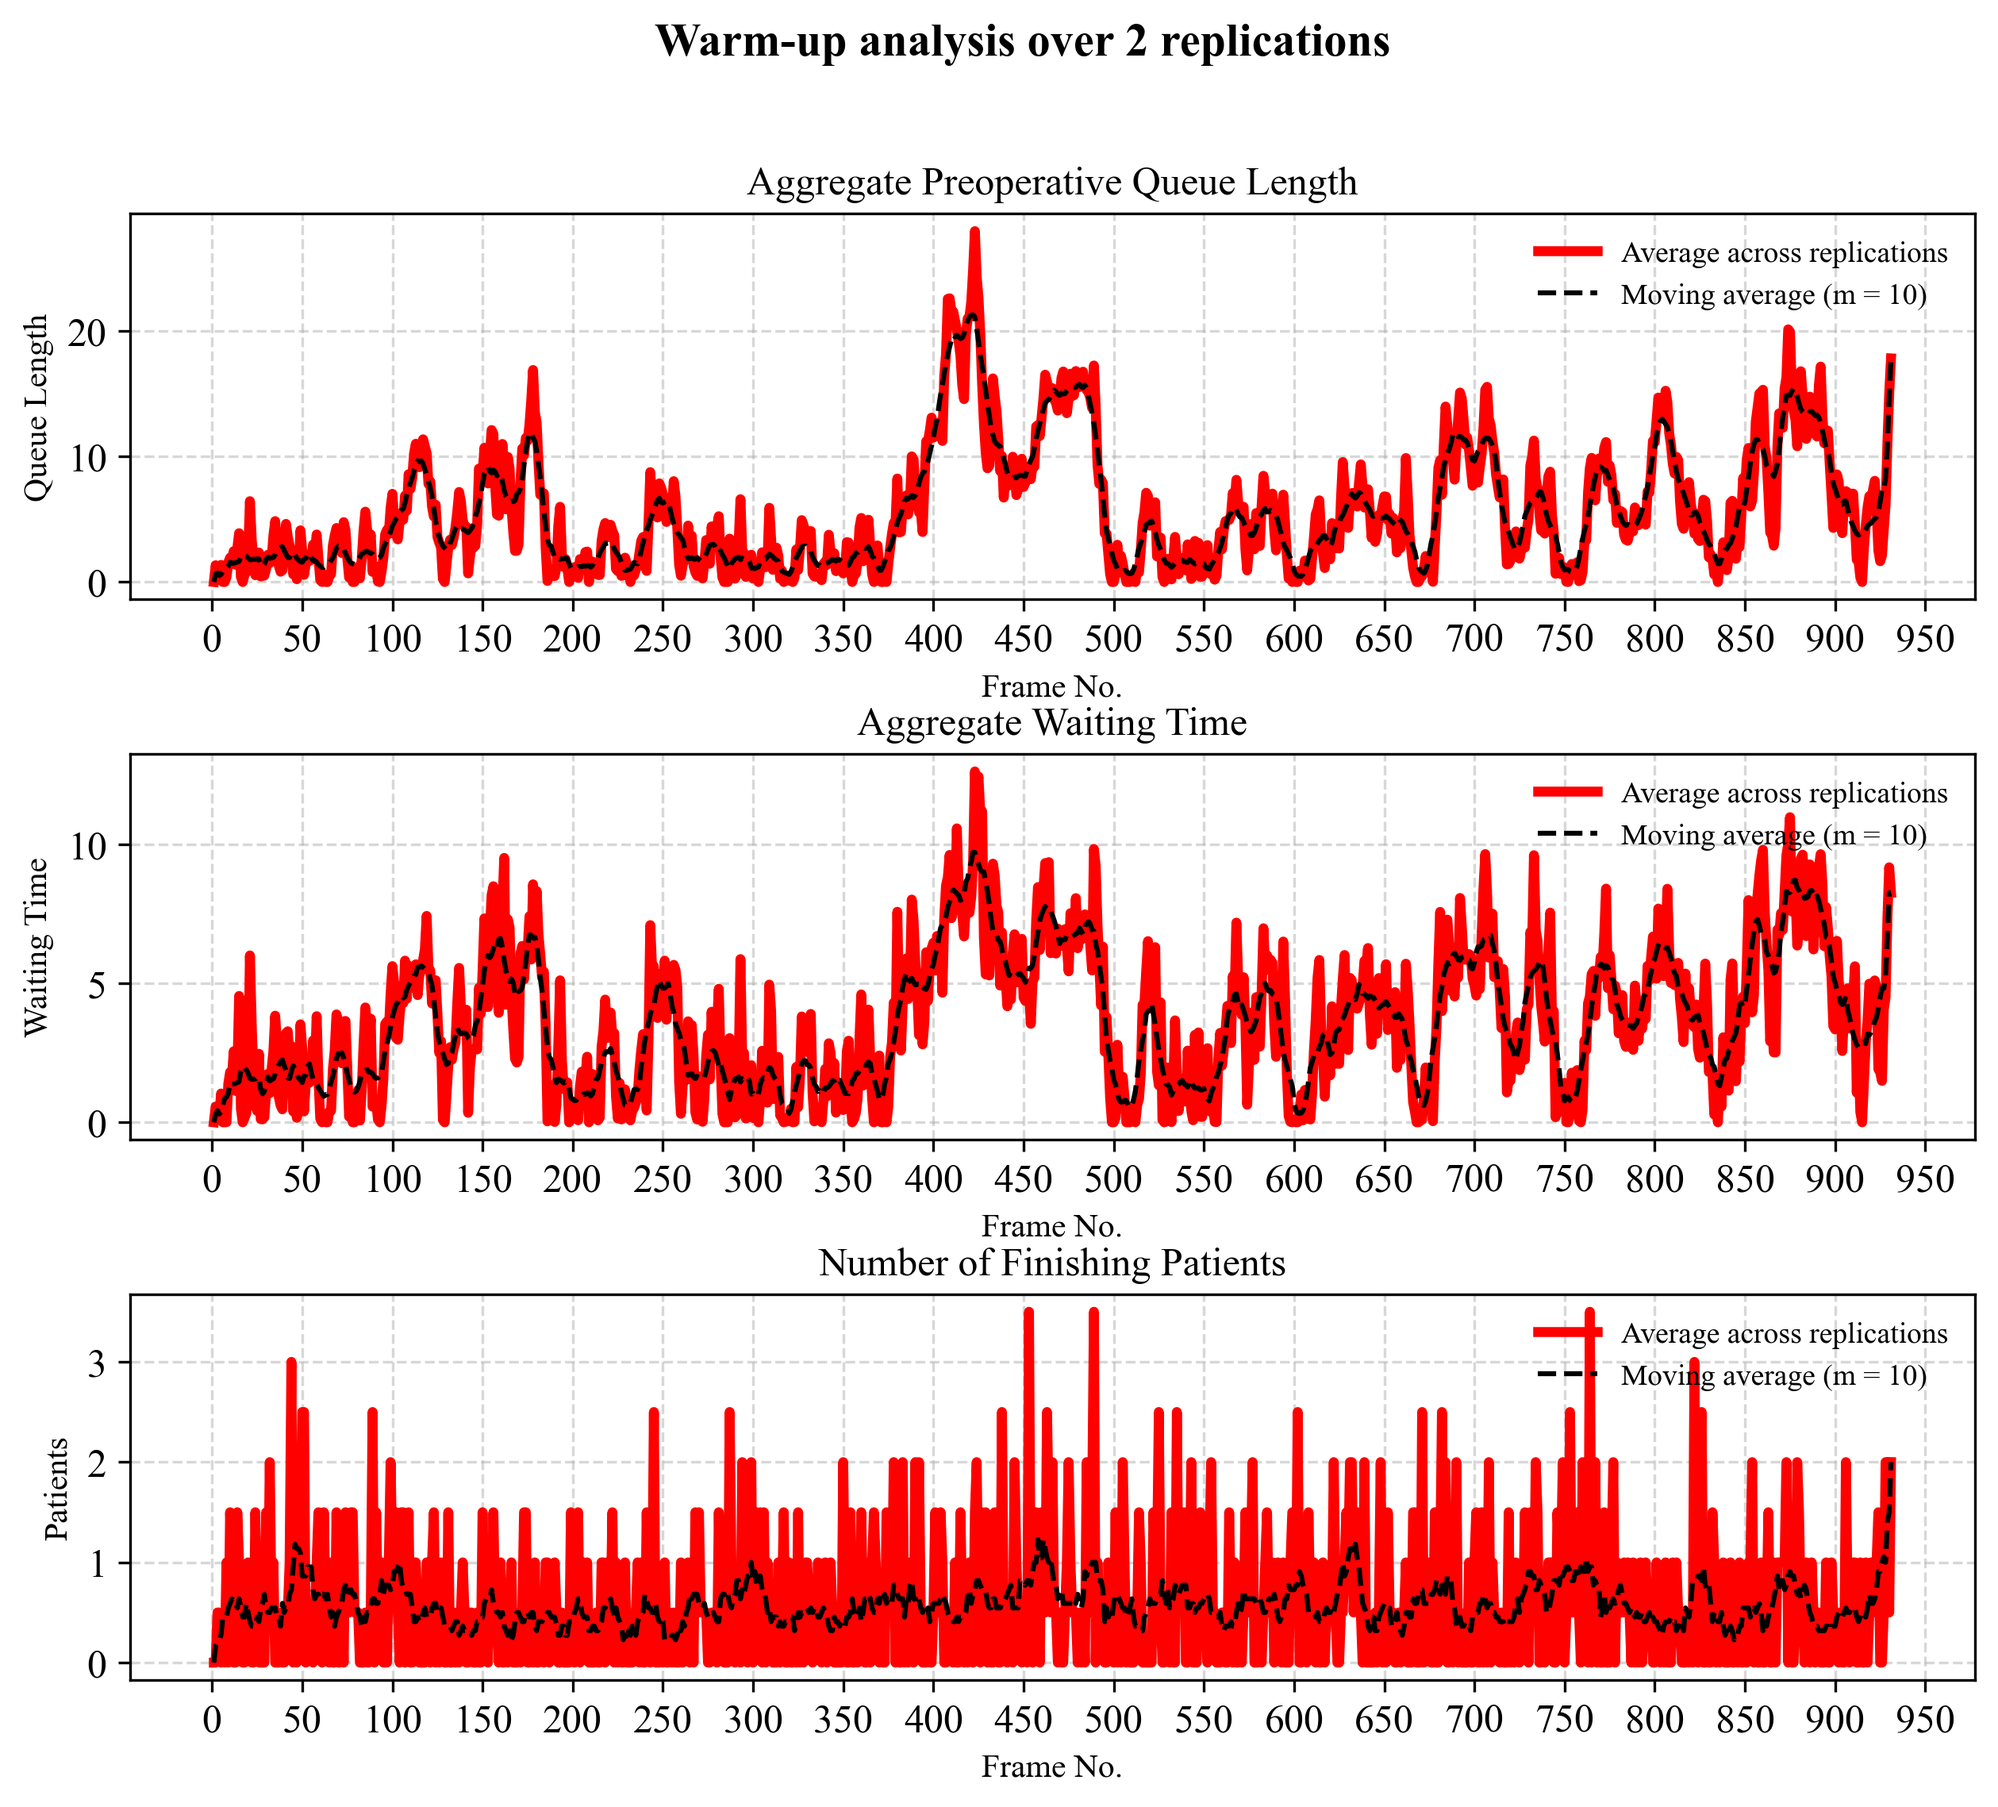
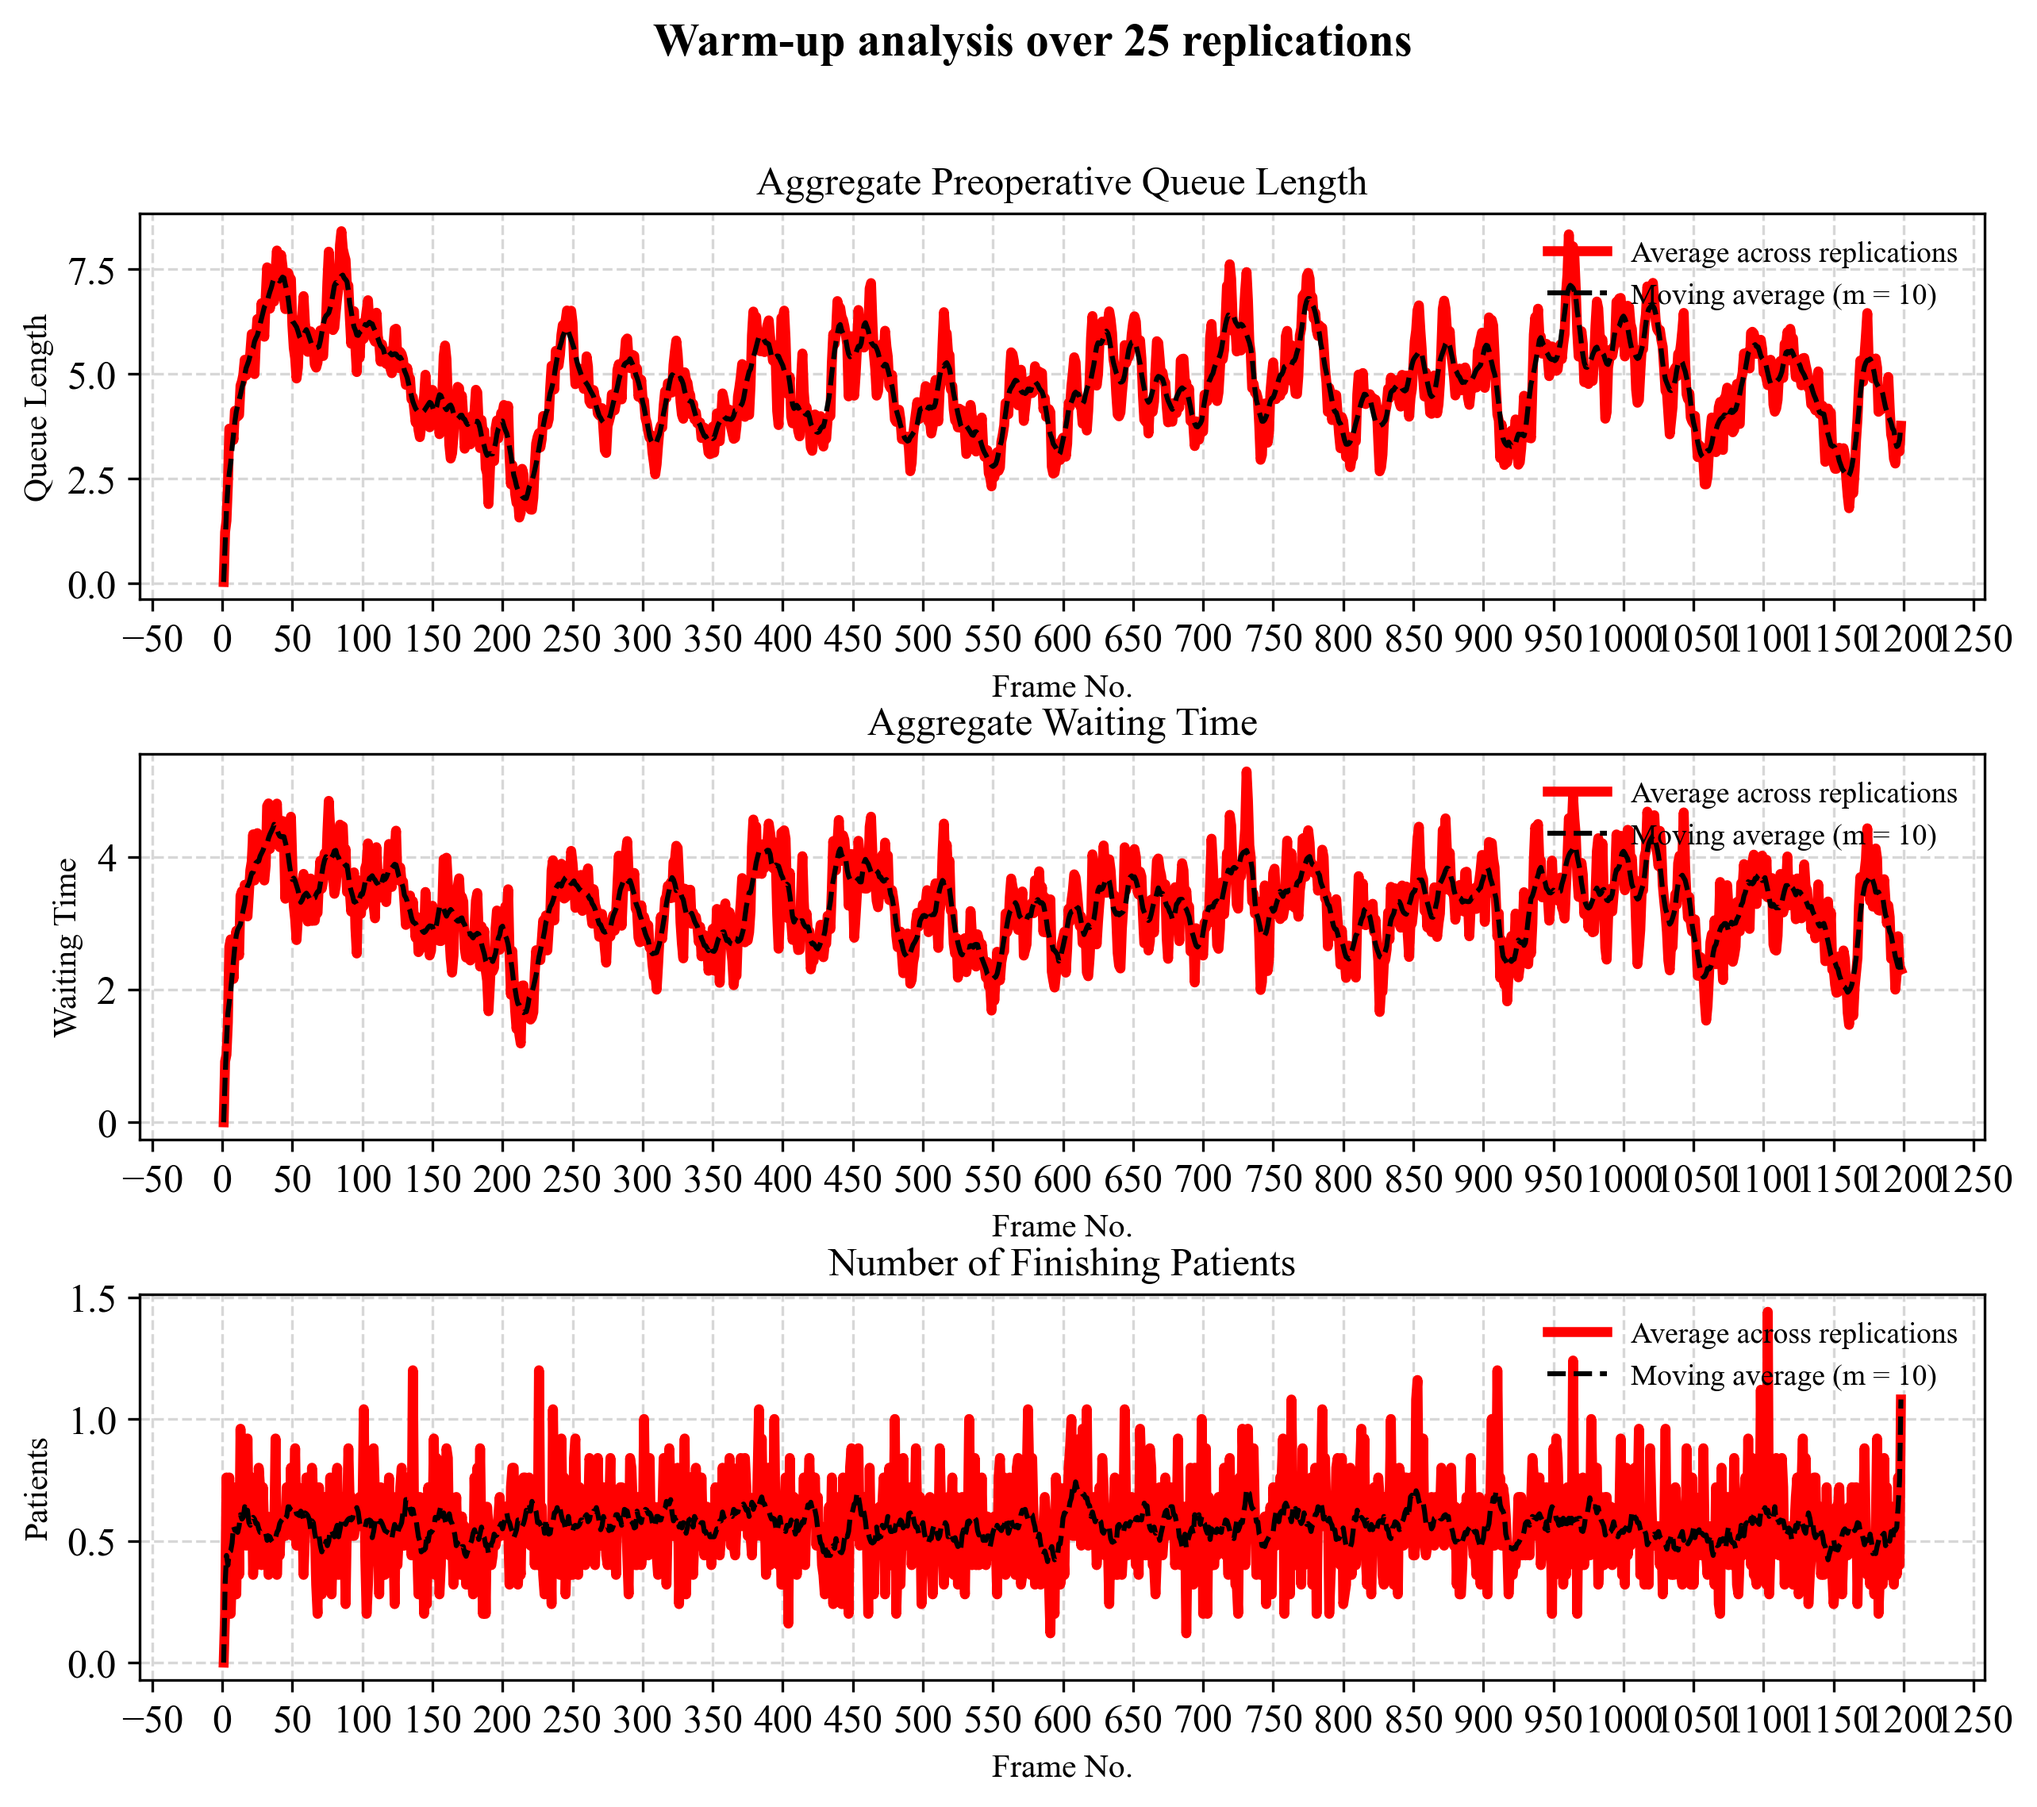
final-plot1

Changed region(s): [[0.0, 0.0935, 0.9913, 0.9978], [0.3098, 0.0, 0.7125, 0.0312]]

diff --git a/get_result.py b/get_result.py
@@ -10,21 +10,21 @@ from openpyxl.styles import Alignment, Font, PatternFill
 
 
 original_param = {
-    'Preoperative Capacity': 25,
+    'Preoperative Capacity': 30,
     'Emergency Capacity': 10,
     'Emergency Queue Capacity': 10,
     'Laboratory Capacity': 3,
     'Operation Capacity': 50,
-    'General Ward Capacity': 40,
+    'General Ward Capacity': 65,
     'ICU Capacity': 10,
-    'CCU Capacity': 5,
+    'CCU Capacity': 10,
     'Normal Arrival Exp Param': 1,
     'Urgent Arrival Exp Param': 4,
     'Normal Laboratory Param': 1,
     'Urgent Laboratory Param': (10 / 60),
     'After Laboratory Uni a Param': (28 / 60),
     'After Laboratory Uni b Param': (32 / 60),
-    'Normal Operation Param': 48,
+    'Normal Operation Param': 24,
     'Urgent Operation trgl LB Param': (5 / 60),
     'Urgent Operation trgl M Param': (75 / 60),
     'Urgent Operation trgl UB Param': (100 / 60),
@@ -35,7 +35,7 @@ original_param = {
     'Complex Operation Mean': 242.03,
     'Complex Operation SD': 63.27,
     'Care Unit Exp Param': (1 / 25),
-    'End of Service Exp Param': (1 / 50)
+    'End of Service Exp Param': (1 / 40)
 }
 
 
@@ -354,7 +354,7 @@ if __name__ == "__main__":
     )
 
     # run simulation once, show metrics results and save the trace as an Excel file (output.xlsx).
-    run_simulation((30 * 24), original_param, excel_creation=False)
+    run_simulation((30 * 24), original_param, excel_creation=True)
 
     # run some replication of the model for obtaining point estimate and confidence interval estimate for each metric.
     # save those as an Excel file (simulation_results.xlsx).

diff --git a/warm_up_analysis.py b/warm_up_analysis.py
@@ -302,8 +302,8 @@ param_updates_2 = {
 }
 
 simulation_config = {
-    'num_of_replications': 2,
-    'num_of_days': 700,
+    'num_of_replications': 25,
+    'num_of_days': 900,
     'frame_length': 18,
     'window_size': 10,
     'tick_spacing': 50
